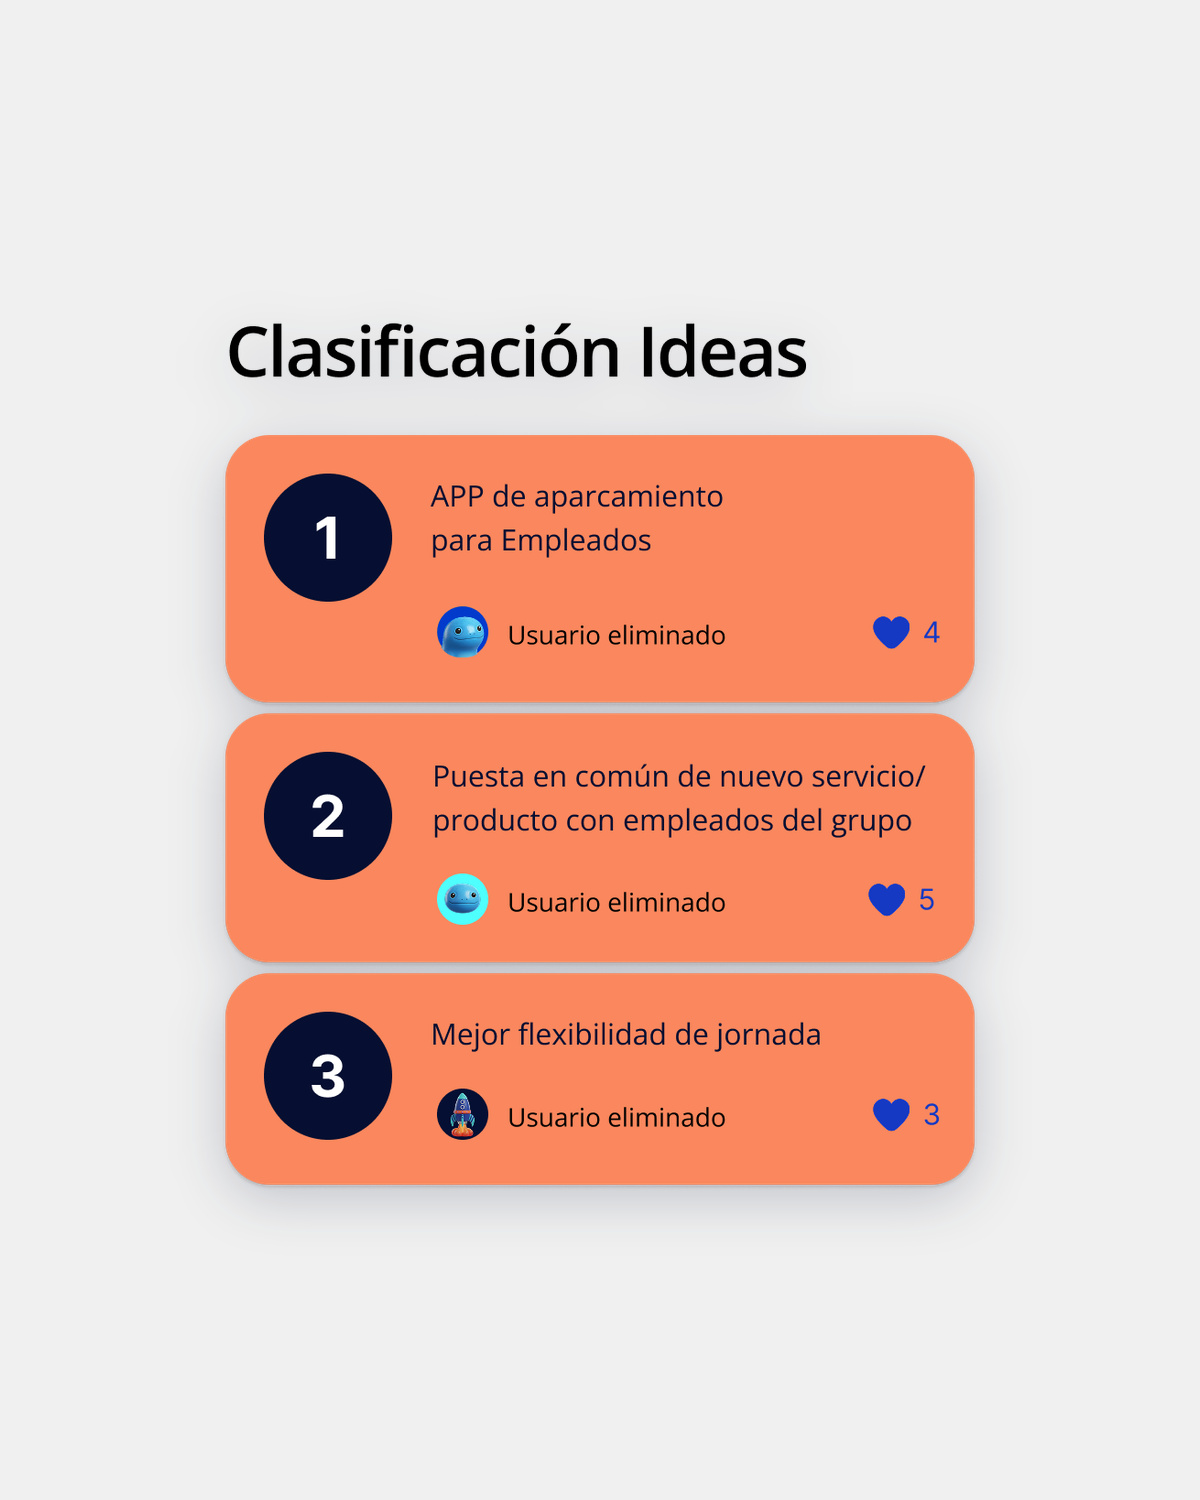
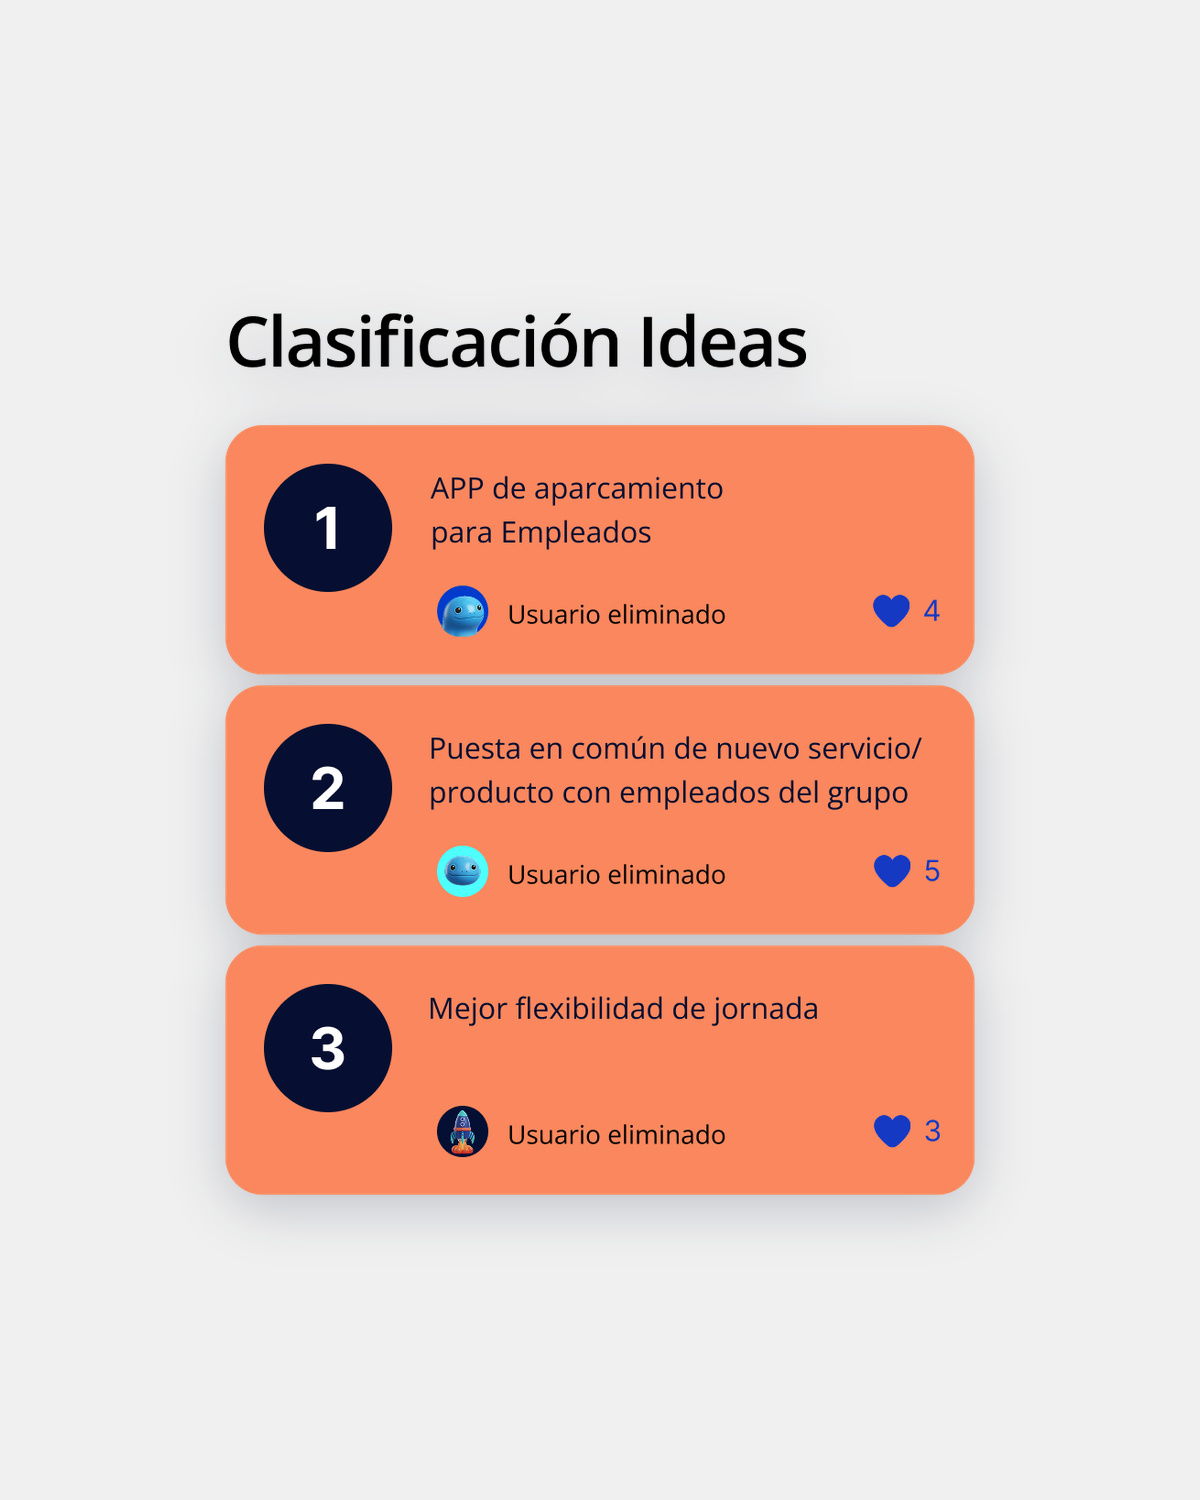
Innohub ranking cards evened out; the menu's contact button always orange and AAA-legible; more room on About
- "Clasificación Ideas": the three cards rebuilt at one height with even gaps and one inner layout, from the
  export's own pieces (scripts/innohub-ranking-even.py); all Innohub images regenerated
- Menu: "Say hola! / Di olá!" stays orange in every state; ink on #ff2700 is 4.79:1, so the label is 19px bold
  (WCAG large text, AAA); the current page is shown with an ink ring, hover underlines
- About: more space under the bar on phones; in-page jumps stop below the bar

Claude-Session: https://claude.ai/code/session_0125CzzT5S3G4ujjDNa4kPYe

Changed region(s): [[0.185, 0.2147, 0.8325, 0.7973]]

diff --git a/components/site-header.tsx b/components/site-header.tsx
@@ -112,11 +112,12 @@ export function SiteHeader() {
                       onClick={closeMenu}
                       aria-current={active ? "page" : undefined}
                       className={cn(
-                        "block rounded-full px-4 py-2.5 text-base transition-colors",
+                        "block rounded-full px-4 py-2.5 text-[19px] leading-snug transition-colors",
                         link.primary
-                          ? "bg-accent text-foreground hover:bg-foreground hover:text-background"
-                          : "text-foreground/80 hover:bg-muted",
-                        active && "bg-foreground text-background hover:bg-foreground",
+                          ? // Always orange. Ink on #ff2700 is 4.79:1: AAA as large text, which is why the label is
+                            // 19px bold (WCAG large = 18.66px bold). Hover underlines; the current page gets an ink ring.
+                            "bg-accent font-bold text-foreground underline-offset-4 hover:underline aria-[current=page]:ring-2 aria-[current=page]:ring-inset aria-[current=page]:ring-foreground"
+                          : cn("text-foreground/80 hover:bg-muted", active && "bg-foreground text-background hover:bg-foreground"),
                       )}
                     >
                       {link.label}

diff --git a/components/about/profile.tsx b/components/about/profile.tsx
@@ -15,7 +15,7 @@ export function AboutProfile() {
   }
 
   return (
-    <section className="mx-auto flex max-w-[1036px] flex-col gap-3 pt-8 md:pt-12">
+    <section className="mx-auto flex max-w-[1036px] flex-col gap-3 pt-16 md:pt-12">
       <h1 className="sr-only">{t.title[locale]}</h1>
       {showDesktop && <AboutDesktop />}
 

diff --git a/app/globals.css b/app/globals.css
@@ -55,6 +55,8 @@
 
   html {
     scroll-behavior: smooth;
+    /* In-page jumps stop below the fixed top bar. */
+    scroll-padding-top: 6rem;
   }
 
   body {

diff --git a/scripts/innohub-ranking-even.py b/scripts/innohub-ranking-even.py
@@ -1,0 +1,79 @@
+# Rebuilds Tari's "Clasificación Ideas" export with its three cards at one height and one inner layout
+# (on the live platform the cards size to their content). Every piece (number, title, user, likes) is cut from
+# the export itself and laid back on the card's own orange. Usage:
+#   python3 -I scripts/innohub-ranking-even.py design-references/innohub-exports/ranking.png design-references/innohub-exports/ranking-even.png
+import sys
+import numpy as np
+from PIL import Image, ImageDraw
+
+src = Image.open(sys.argv[1]).convert("RGBA")
+a = np.array(src).astype(int)
+ORANGE = (250, 135, 93, 255)
+CARDS = [(140, 431), (444, 715), (728, 958)]  # the cards' rows in the export
+LEFT, RIGHT, RADIUS, GAP = 6, 823, 40, 12
+CARD_H = 272  # the middle card, the one with a two-line title
+
+def bbox(mask, x0, y0):
+    ys, xs = np.nonzero(mask)
+    return xs.min() + x0, ys.min() + y0, xs.max() + x0 + 1, ys.max() + y0 + 1
+
+def pieces(top, bottom):
+    reg = a[top:bottom + 1]
+    ink = np.abs(reg[:, :, :3] - np.array(ORANGE[:3])).sum(axis=2) > 60
+    inner = ink[16:-16]  # stay clear of the rounded edges
+    circle = bbox((reg[16:-16, 30:200, :3].sum(axis=2) < 200), 30, top + 16)
+    rows = inner[:, 220:810].any(axis=1)
+    runs, start = [], None
+    for y, v in enumerate(rows):
+        if v and start is None: start = y
+        if not v and start is not None: runs.append((start + top + 16, y + top + 16)); start = None
+    if start is not None: runs.append((start + top + 16, len(rows) + top + 16))
+    meta, title = runs[-1], (runs[0][0], runs[-2][1])
+    def crop_band(x0, x1, y0, y1):
+        m = np.abs(a[y0:y1, x0:x1, :3] - np.array(ORANGE[:3])).sum(axis=2) > 60
+        return bbox(m, x0, y0)
+    return {
+        "circle": circle,
+        "title": crop_band(220, 810, *title),
+        "user": crop_band(220, 640, *meta),
+        "likes": crop_band(680, 805, *meta),
+    }
+
+parts = [pieces(t, b) for t, b in CARDS]
+ref = parts[1]  # the middle card sets the layout
+mid_top = CARDS[1][0]
+pos = {
+    "circle_cy": (ref["circle"][1] + ref["circle"][3]) / 2 - mid_top,
+    "title_y": ref["title"][1] - mid_top,
+    "title_x": min(p["title"][0] for p in parts),
+    "user_cy": (ref["user"][1] + ref["user"][3]) / 2 - mid_top,
+    "user_x": min(p["user"][0] for p in parts),
+    "likes_right": max(p["likes"][2] for p in parts),
+}
+
+height = CARDS[0][0] + 3 * CARD_H + 2 * GAP + (src.height - 1 - CARDS[2][1])
+out = Image.new("RGBA", (src.width, height), (0, 0, 0, 0))
+out.alpha_composite(src.crop((0, 0, src.width, CARDS[0][0])), (0, 0))  # the heading, untouched
+
+def card_shape(w, h):
+    s = 4
+    m = Image.new("L", (w * s, h * s), 0)
+    ImageDraw.Draw(m).rounded_rectangle((0, 0, w * s - 1, h * s - 1), radius=RADIUS * s, fill=255)
+    tile = Image.new("RGBA", (w, h), ORANGE)
+    tile.putalpha(m.resize((w, h), Image.LANCZOS))
+    return tile
+
+def paste(box, x, y):
+    piece = src.crop(box)
+    out.alpha_composite(piece, (int(round(x)), int(round(y))))
+
+for i, p in enumerate(parts):
+    top = CARDS[0][0] + i * (CARD_H + GAP)
+    out.alpha_composite(card_shape(RIGHT - LEFT + 1, CARD_H), (LEFT, top))
+    c = p["circle"]; paste(c, c[0], top + pos["circle_cy"] - (c[3] - c[1]) / 2)
+    t = p["title"]; paste(t, pos["title_x"], top + pos["title_y"])
+    u = p["user"]; paste(u, pos["user_x"], top + pos["user_cy"] - (u[3] - u[1]) / 2)
+    l = p["likes"]; paste(l, pos["likes_right"] - (l[2] - l[0]), top + pos["user_cy"] - (l[3] - l[1]) / 2)
+
+out.save(sys.argv[2])
+print("saved", out.size)

diff --git a/scripts/innohub-images.py b/scripts/innohub-images.py
@@ -66,7 +66,9 @@ def cover_crop(img, w, h):
 
 
 nav, people, ideas, welcome = load("nav"), load("people"), load("ideas"), load("welcome")
-participa, norma, ranking, message = load("participa"), load("norma"), load("ranking"), load("message")
+participa, norma, message = load("participa"), load("norma"), load("message")
+# The ranking screen with its three cards evened out (scripts/innohub-ranking-even.py).
+ranking = load("ranking-even")
 mascot, rocket, block = load("mascot"), load("rocket"), load("block")
 workshop = Image.open(f"{SRC}/workshop.jpg").convert("RGBA")
 FONT = SRC + "/OpenSans-SemiBold.ttf"
